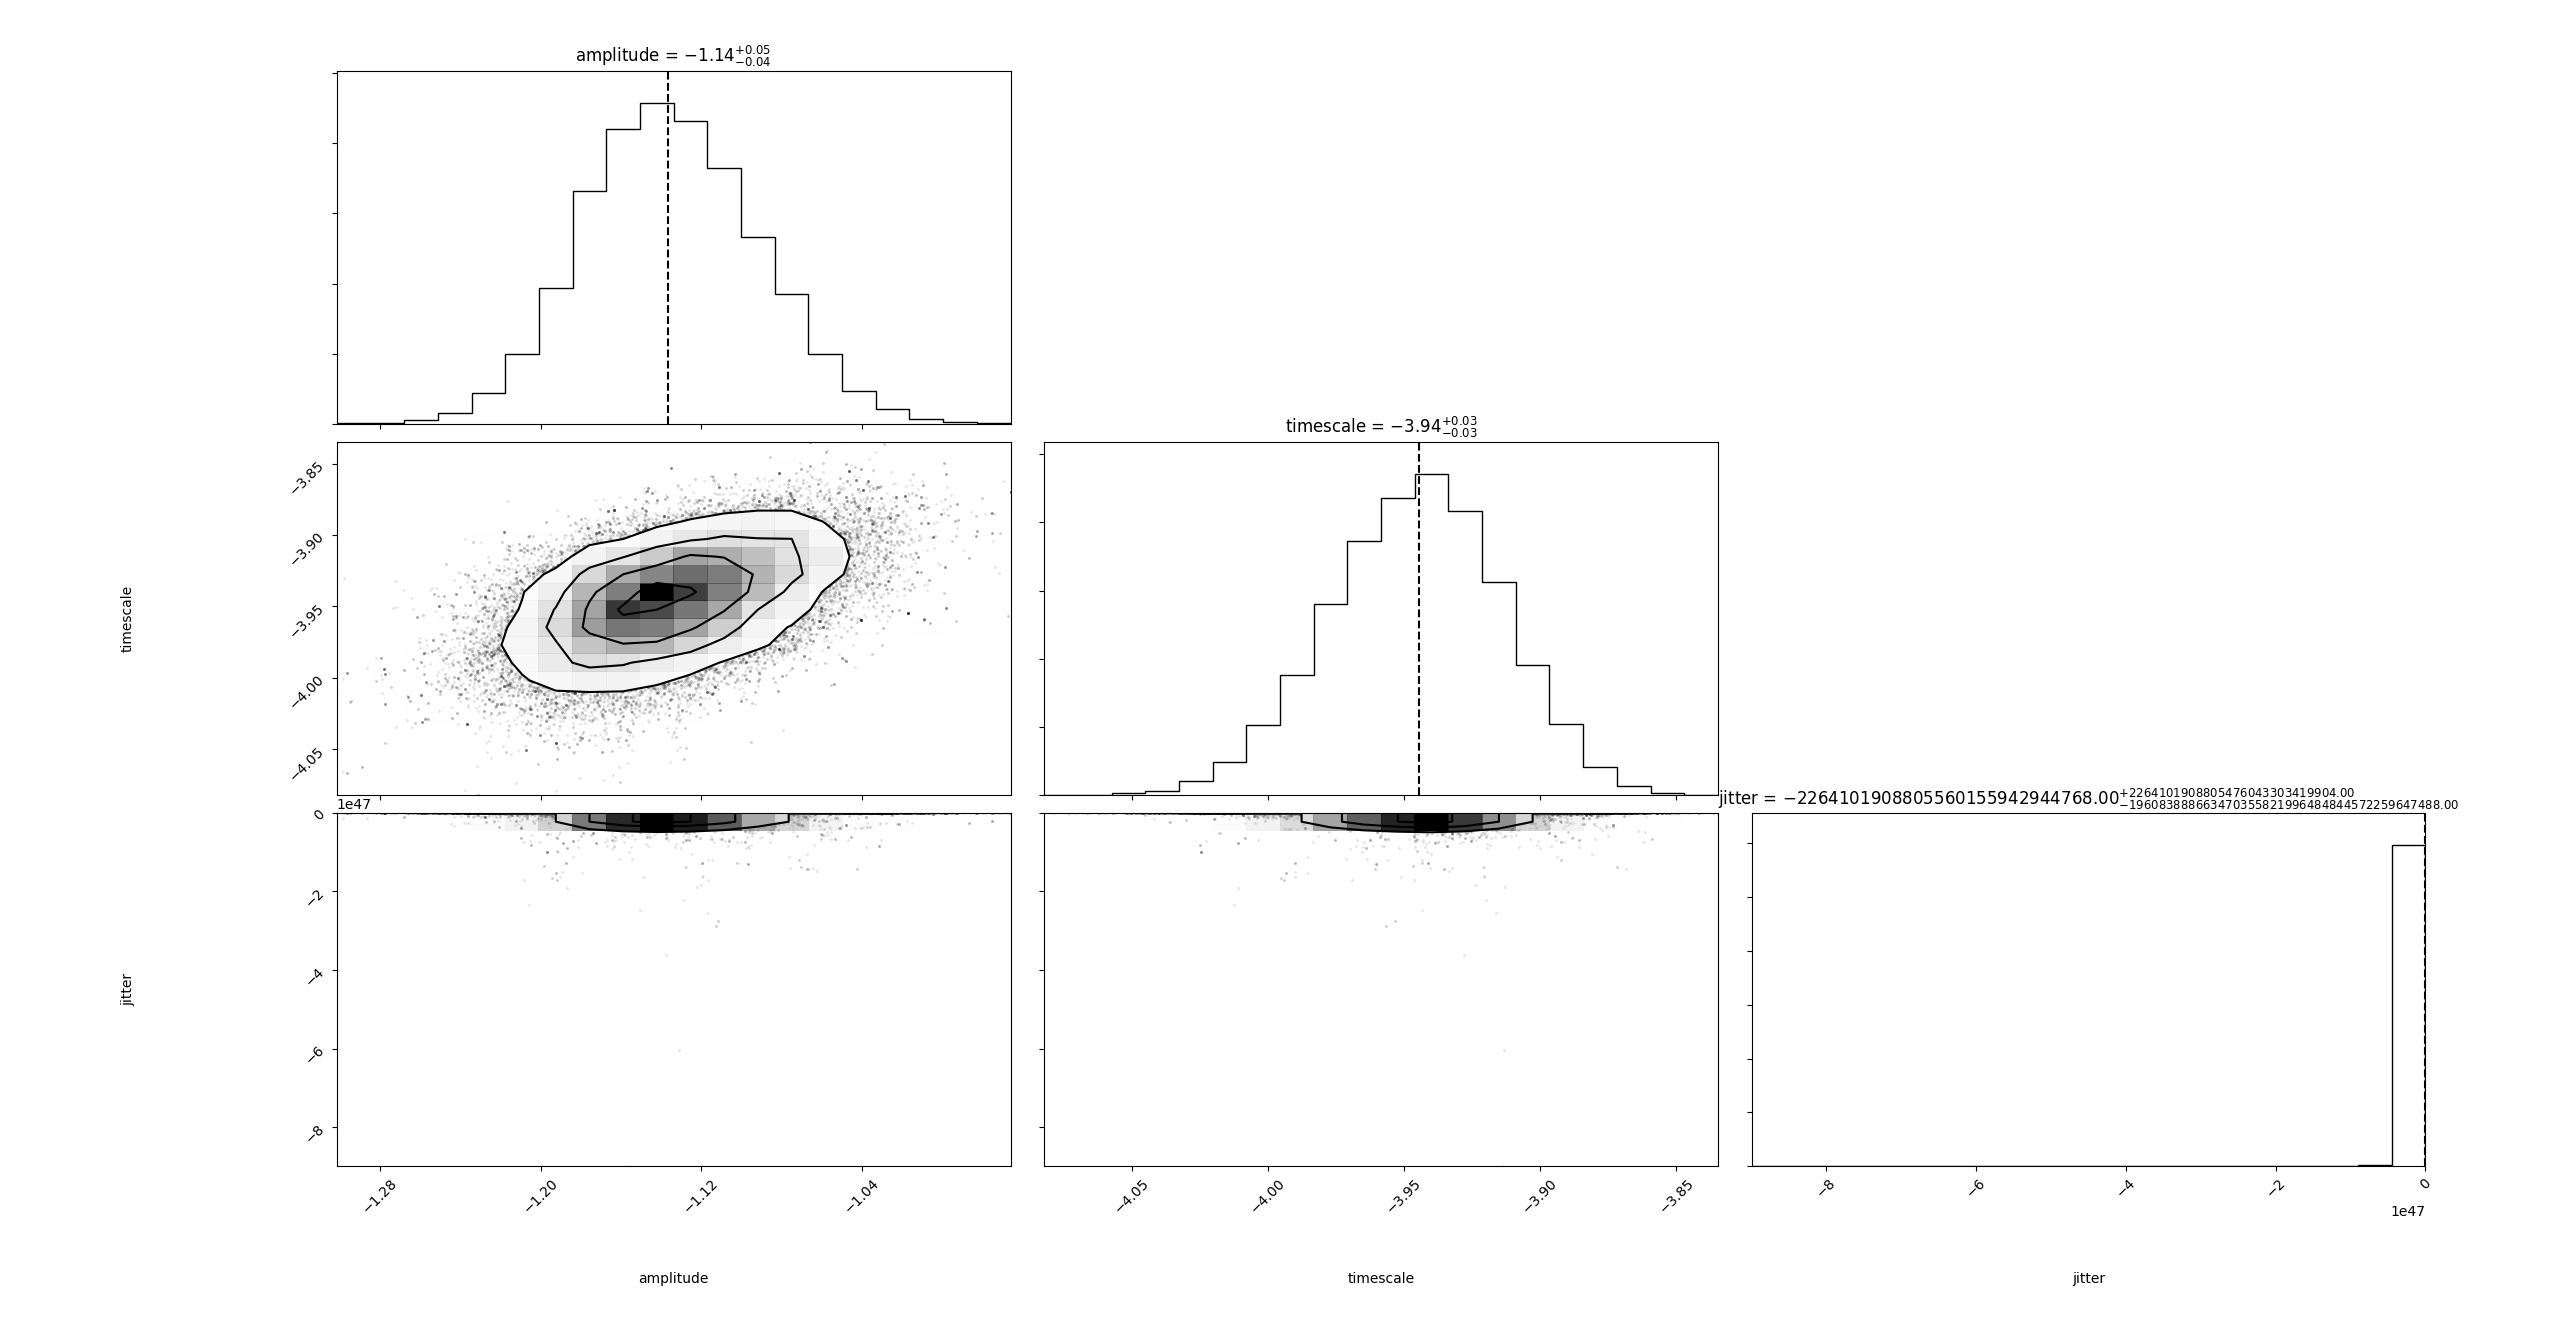
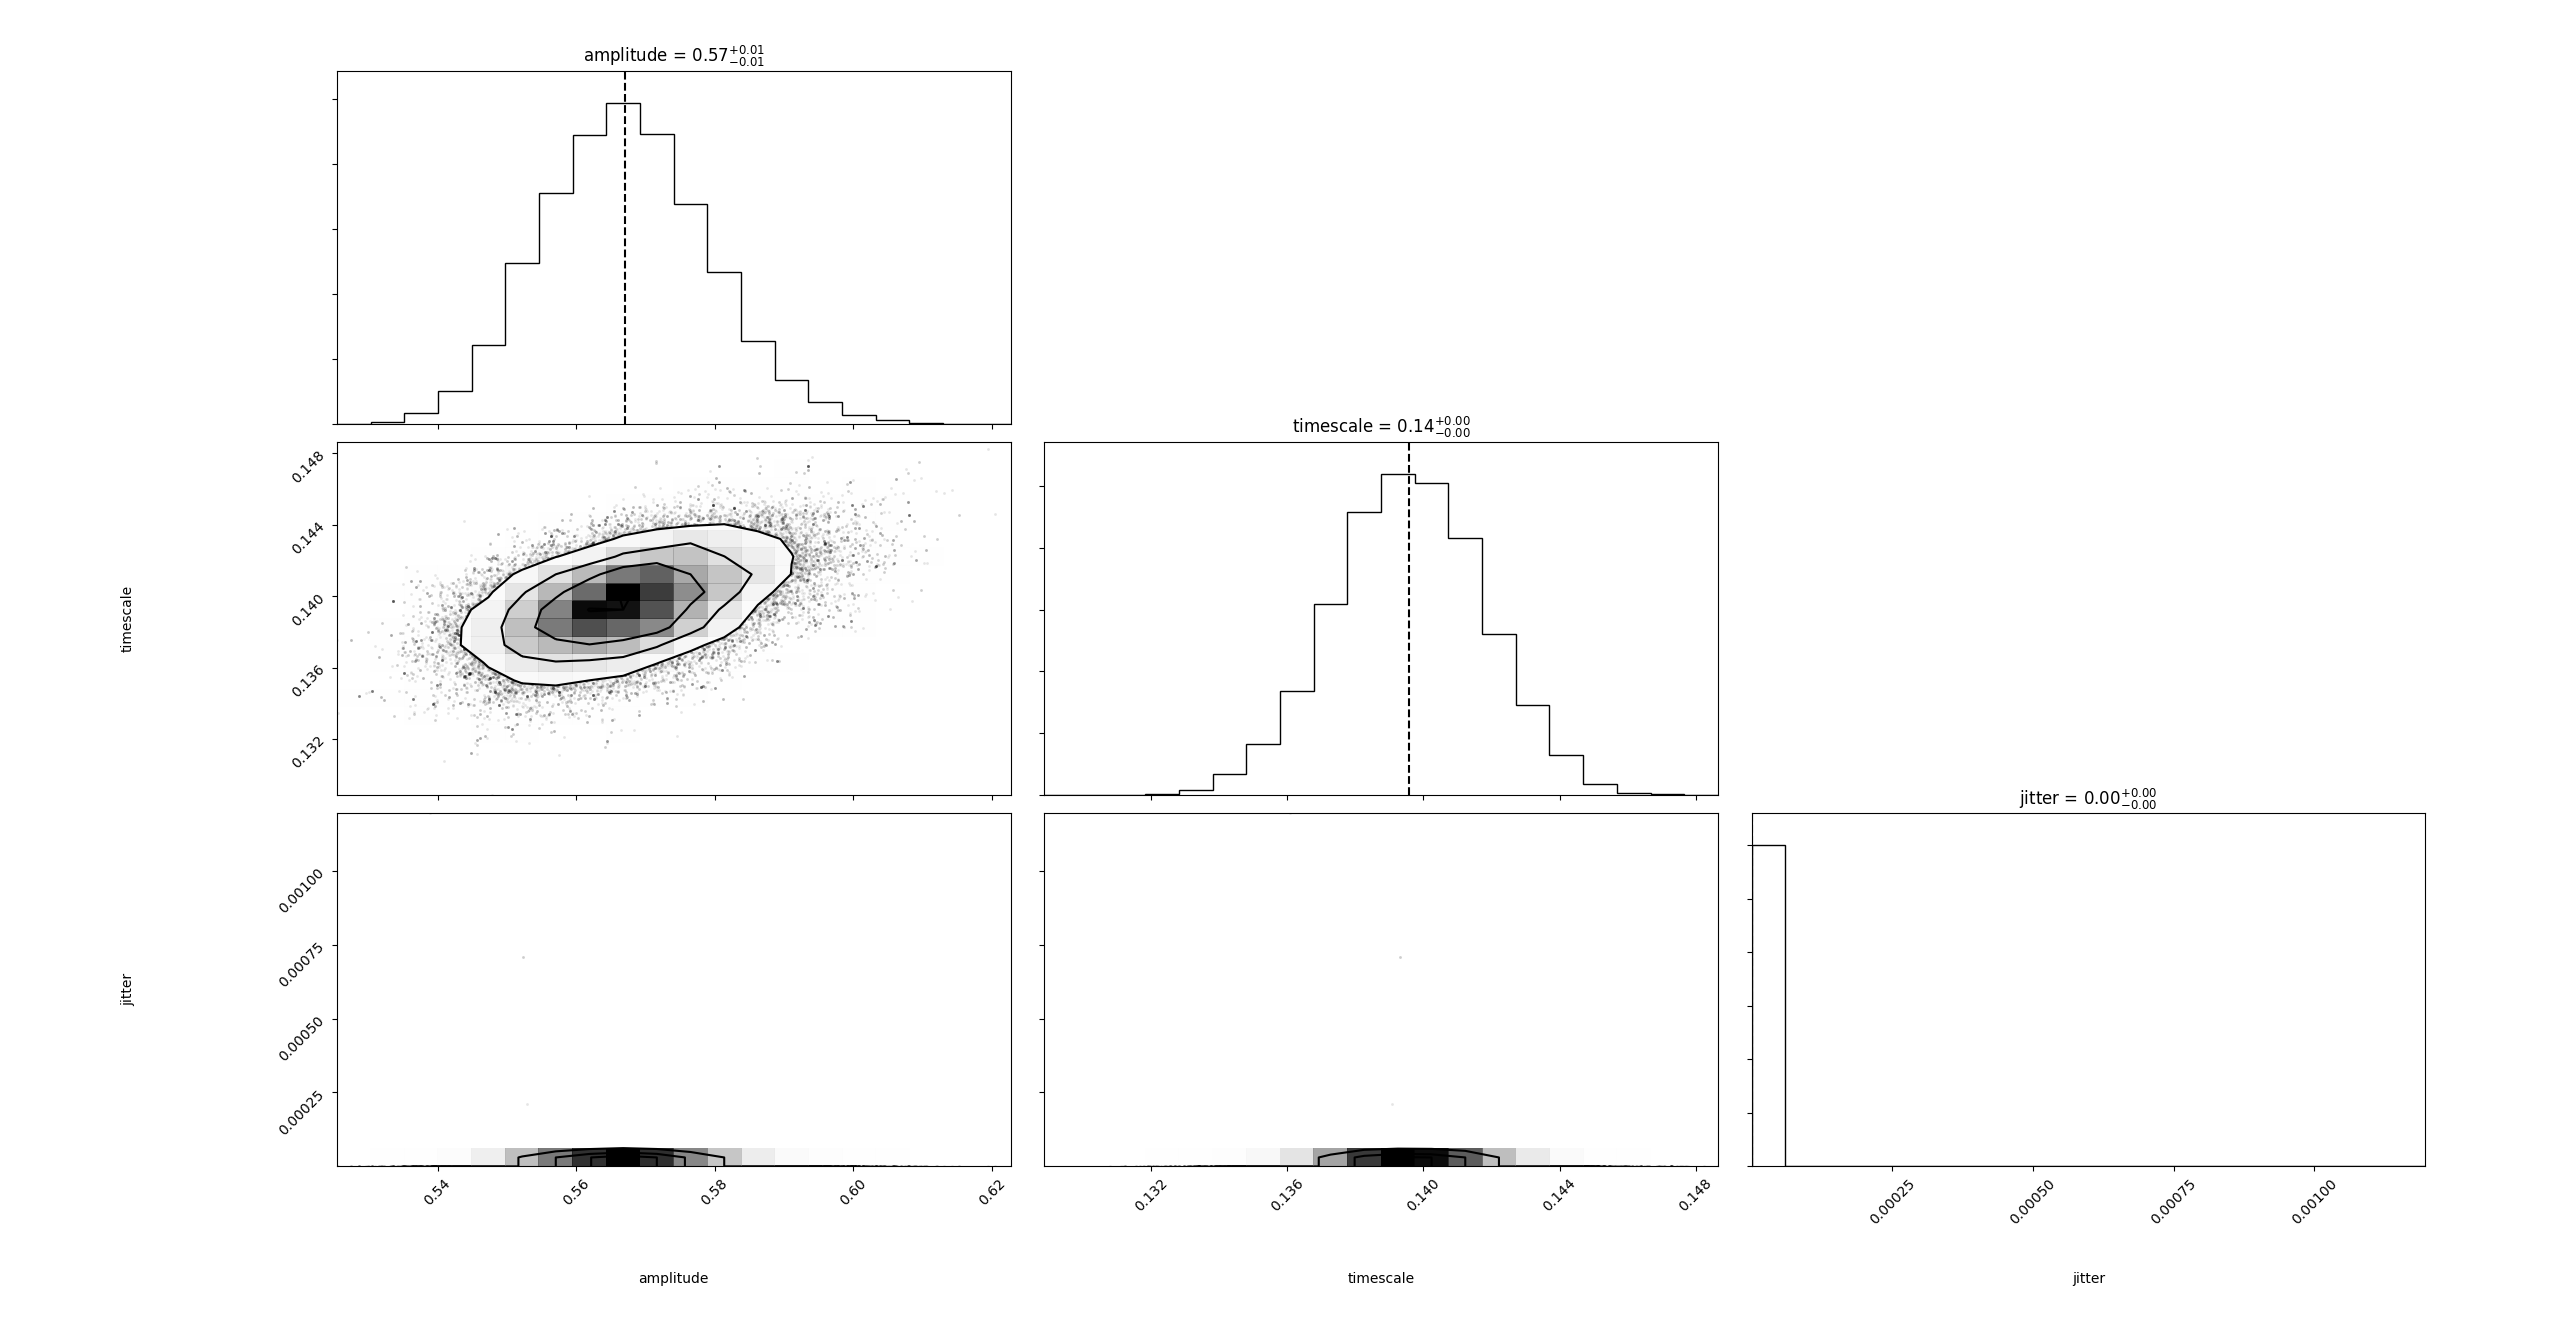
Fixed corner plot values

diff --git a/gp-tests/redgiant.py b/gp-tests/redgiant.py
@@ -182,9 +182,9 @@ def main(file, plot=False):
 
 	#samples2 = np.exp(sampler.chain[:, 500:, :].reshape((-1, ndim)))
 	samples2 = np.exp(samples)
-	samples3 = np.array([[np.sqrt(samples2[0])], [np.sqrt(samples2[1])], [samples2[2]]])
+	samples3 = np.array([np.sqrt(samples2[:,0]), np.sqrt(samples2[:,1]), samples2[:,2]])
 	print np.shape(samples3)
-	fig3 = corner.corner(samples2, labels=["amplitude", "timescale", "jitter"], quantiles=[0.5], show_titles=True)
+	fig3 = corner.corner(samples3.transpose(), labels=["amplitude", "timescale", "jitter"], quantiles=[0.5], show_titles=True)
 
 	fig1.show()
 	fig2.show()
